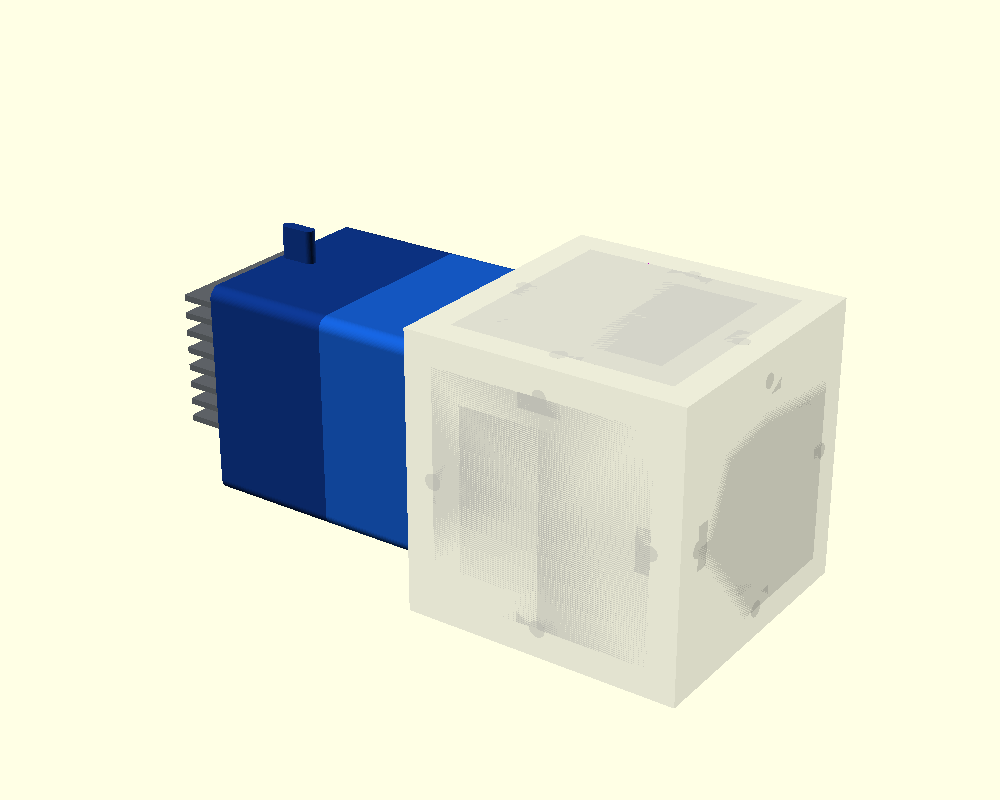
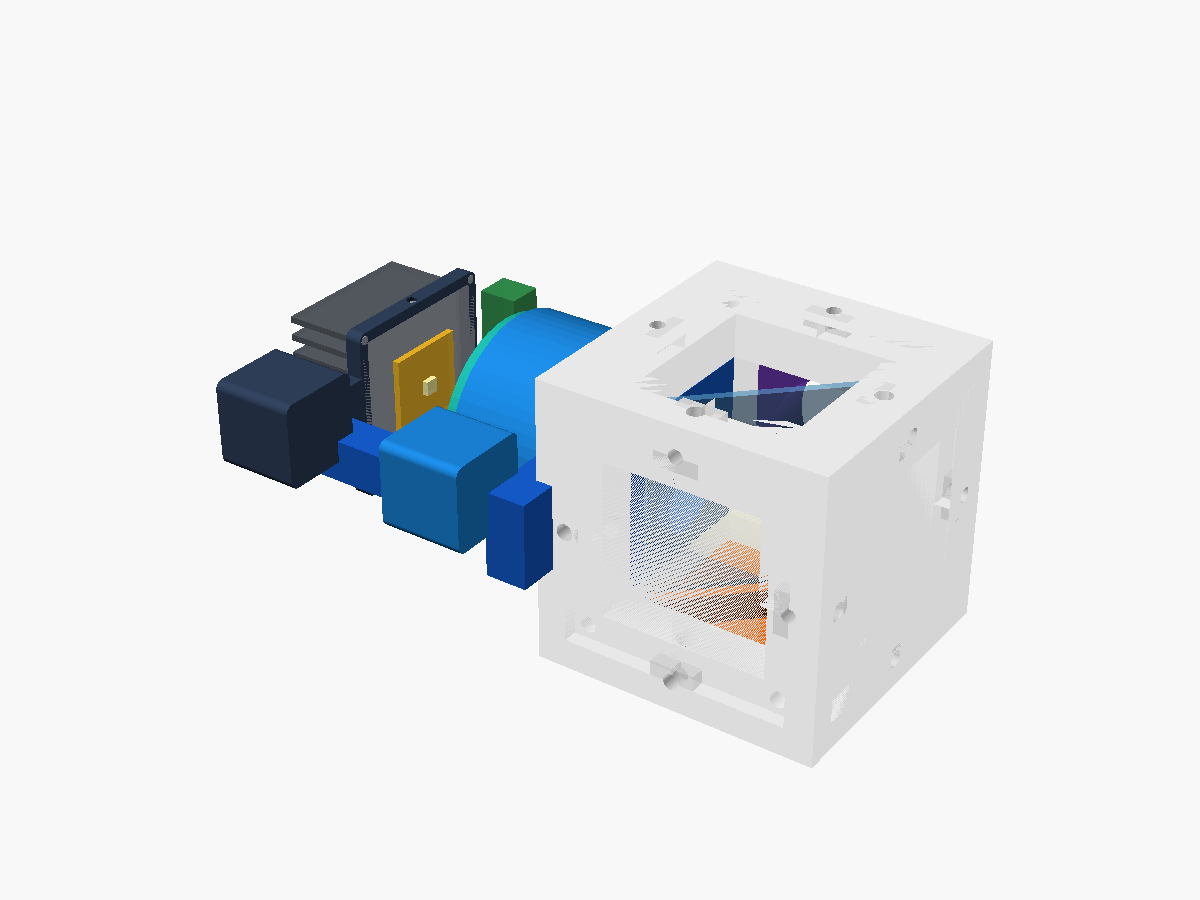
Add adjustable collimator rail
Model the transcript-specified 10 mm rail, 10.3 mm slider,
collimator barrel, LED collar, M3 clamps, and curated previews.

Changed region(s): [[0.155, 0.2812, 0.868, 0.9062], [0.682, 0.5, 0.713, 0.5312], [0.558, 0.2812, 0.589, 0.3125]]

diff --git a/README.md b/README.md
@@ -27,12 +27,18 @@ The bottom face holds a 50 x 50 x 2.05 mm beamsplitter at 45 degrees. Its two
 rails extend through the face recess and stop flush with the visible cube
 opening, so they remain hidden in a straight side view.
 
-The default light face now uses an external pod for the supplied two-lens
-collimator cartridge. The assembly measures 41 mm in diameter and 24.1 mm thick
-along the light path. The pod keeps the 30 mm cube-side output and provides 6 mm LED focus
-travel, and separates the printed optical shell from the metal heat spreader
-and exposed heatsink. The older compact diffuser chamber remains available in
-legacy render modes.
+The default light face now carries a 10 mm square external rail. A printed
+collimator barrel slides along it, keeping the lens axis centered on the cube
+opening while allowing the lens-to-LED distance to be tuned. The rail channel
+is 10.3 mm square, its surrounding walls are 5 mm thick, and opposing M3 clamp
+locations lock the chosen position. Set `collimator_rail_position_mm` to move
+the collimator before printing.
+
+The supplied two-lens assembly measures 41 mm in diameter and 24.1 mm thick
+along the light path. It drops into a 41.2 mm barrel bore, seats on a 1 mm
+radial front ledge, and is held by the existing spring and removable retaining
+ring. The LED and thermal stack use a separate rail collar. The older external
+pod and compact diffuser chamber remain available in legacy render modes.
 
 The 41 mm diameter and 24.1 mm axial thickness are measured. The selected LED is
 a 3 W, 700 mA 3535 emitter on a 20 mm star MCPCB. Clear aperture, focal data,
@@ -64,9 +70,13 @@ Set `render_mode` in `optical_setup.scad`:
 - `12`: printable focus-adjustable LED/heatsink carriage
 - `13`: assembled condenser light engine reference
 - `14`: exploded condenser light engine reference
+- `15`: printable adjustable-rail uFace and rail base
+- `16`: printable 41 mm collimator barrel and rail slider
+- `17`: printable LED/heatsink rail collar
+- `18`: assembled adjustable rail light engine reference
 
-Modes 0, 7, 8, 13, and 14 contain non-printable references. Export the other
-modes separately.
+Modes 0, 7, 8, 13, 14, and 18 contain non-printable references. Export the
+other modes separately.
 
 ## Measurements to confirm
 
@@ -84,3 +94,10 @@ must preload a flat annular pressure washer rather than contact or center the
 optics directly. Its compressed axial height still needs measurement. Then
 verify the MCPCB, heat-spreader, heatsink, and driver dimensions before printing
 full modes 9, 10, and 12.
+
+For the adjustable version, test modes 15 through 17 before a final print. The
+10.0/10.3 mm rail fit and 5 mm slider walls come from the supplied design
+notes. Rail length, face anchor dimensions, slider length, and M3 heat-set
+insert pockets are marked `PROVISIONAL` because those measurements were not
+visible in the transcripts. Confirm those dimensions and the usable focus
+range on the physical cube, then set `collimator_rail_position_mm`.
